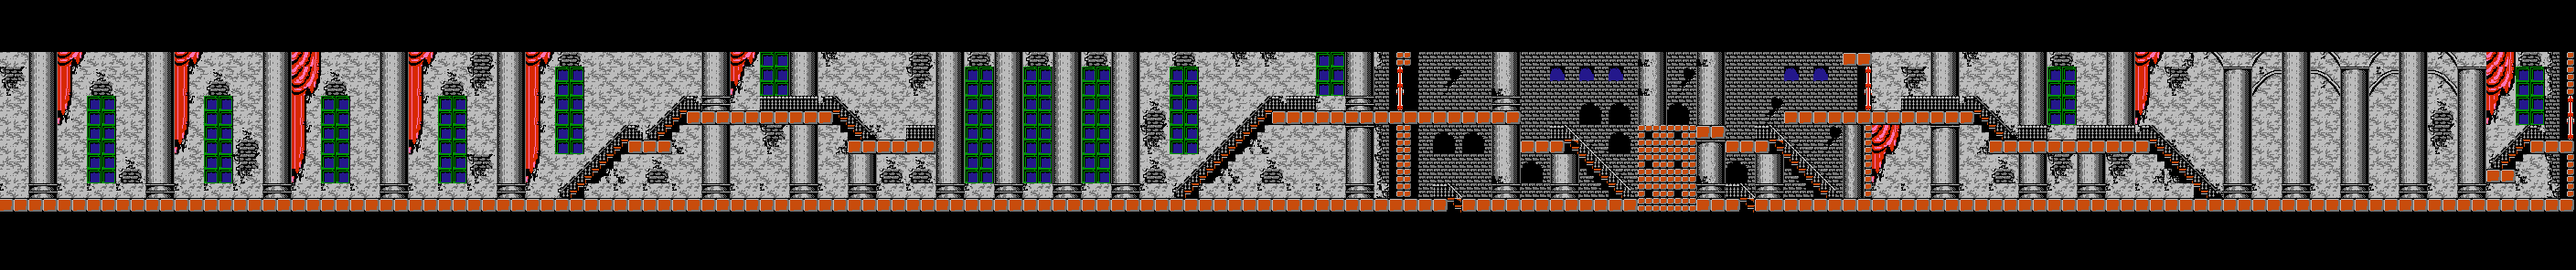
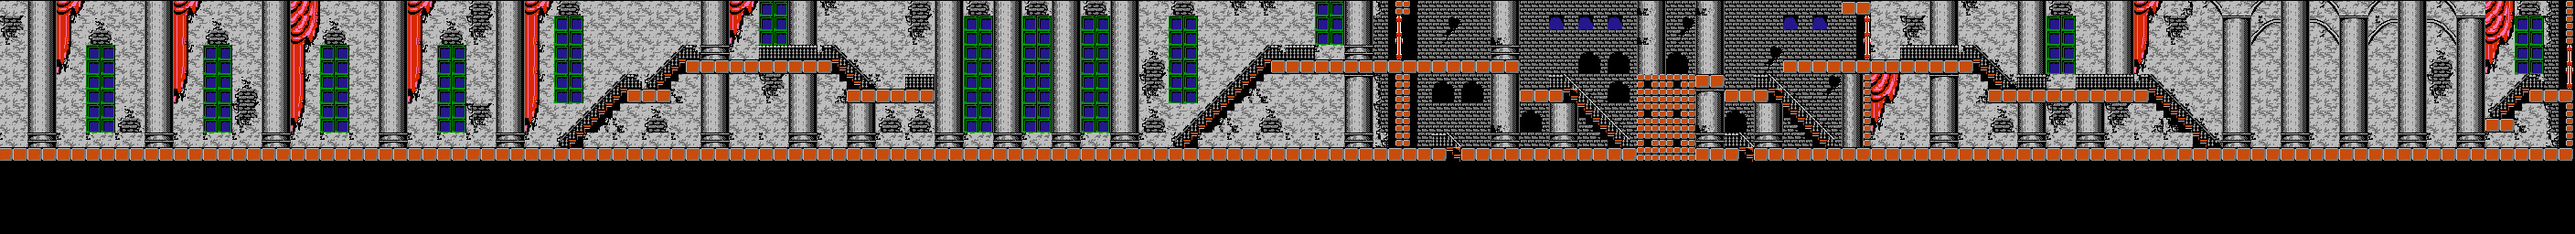
edit tilemaps + Simon can use subWeapon

diff --git a/CastleVania/CastleVania/Weapon.cpp b/CastleVania/CastleVania/Weapon.cpp
@@ -1,7 +1,8 @@
 #include "Weapon.h"
 #include "Candle.h"
-#include "debug.h"
-#include <iostream>
+#include "Game.h"
+#include "Simon.h"
+
 
 Weapon::Weapon()
 {
@@ -19,42 +20,49 @@ Weapon::Weapon()
 
 void Weapon::Update(DWORD dt, vector<LPGAMEOBJECT>* coObjects)
 {
-	CGameObject::Update(dt);
+		CGameObject::Update(dt);
+
+	// Calculate dx, dy 
+	if (isFlying)
+	{
+		x += dx;
+
 	
-		// Calculate dx, dy 
-		if (isFlying)
+
+		//Xet va cham voi candle bang bbox 
+		for (UINT i = 1; i < coObjects->size(); i++)
 		{
-			x += dx;
-	
-	
-			//Xet va cham voi candle bang bbox 
-			for (UINT i = 1; i < coObjects->size(); i++)
+			float left_a, top_a, right_a, bottom_a;// obj khac
+			float left, top, right, bottom; // dagger
+
+			coObjects->at(i)->GetBoundingBox(left_a, top_a, right_a, bottom_a);			// bbox obj 
+			GetBoundingBox(left, top, right, bottom);									// bbox dagger 
+
+			if (CheckAABB(left_a, top_a, right_a, bottom_a, left, top, right, bottom))
 			{
-				float left_a, top_a, right_a, bottom_a;// obj khac
-				float left, top, right, bottom; // dagger
-	
-				coObjects->at(i)->GetBoundingBox(left_a, top_a, right_a, bottom_a);			// bbox obj 
-				GetBoundingBox(left, top, right, bottom);									// bbox dagger 
-	
-				if (CheckAABB(left_a, top_a, right_a, bottom_a, left, top, right, bottom))
+				
+				if (dynamic_cast<CCandle*>(coObjects->at(i))) // if e->obj is CANDLE 				
 				{
-					
-					if (dynamic_cast<CCandle*>(coObjects->at(i))) // if e->obj is CANDLE 				
-					{
-						coObjects->at(i)->SetState(CANDLE_STATE_FIRE);
-						SetState(WeaponType::NONE);
-	
-					}
-	
+					coObjects->at(i)->SetState(CANDLE_STATE_FIRE);
+					SetState(WeaponType::NONE);
+					CSimon::GetInstance()->isUsingSupWeapon = false;
+
 				}
+
 			}
 		}
-	/*
-		if (x > CGame::GetInstance()->GetCam_x() + SCREEN_WIDTH  && x < 512)
+
+		if (x > CGame::GetInstance()->GetCam_x() + SCREEN_WIDTH )
 		{
-			isFlying = false;
+			SetState(WeaponType::NONE);
+			CSimon::GetInstance()->isUsingSupWeapon = false;
 			return;
-		}*/
+		}
+	}
+
+
+
+
 }
 
 void Weapon::Render()
@@ -109,6 +117,10 @@ void Weapon::SetState(int state)
 	//this->nx = CSimon::GetInstance()->nx;
 	switch (state)
 	{
+	case WeaponType::NONE:
+		isFlying = false;
+		isThrowing = false;
+		break;
 	case WeaponType::DAGGER:
 		std::cout << "vo state dagger" << endl;
 		isFlying = true;

diff --git a/CastleVania/CastleVania/CTileMap.cpp b/CastleVania/CastleVania/CTileMap.cpp
@@ -119,19 +119,15 @@ void CTileMap::LoadMap() // DOC FILE MA TRAN CUA MAP THEO ID MAP
 
 void CTileMap::RenderMap()
 {
-	CSprites* spritetile = CSprites::GetInstance();
-	CTextures* textures = CTextures::GetInstance();
-
 	col_begin = floor( CGame::GetInstance()->GetCam_x() / 64 ); // cot bd (lam tron xuong)
 	col_end = col_begin + SCREEN_WIDTH / 64 +1;					// cot ket thuc -> lay du 1 cot 
-
 
 	for (int i = 0; i < num_row; i++)
 	{
 		for (int j = col_begin; j < col_end; j++)
 		{
 			float x = TILE_SIZE * (j - col_begin) - (int)CGame::GetInstance()->GetCam_x() % 64 + CGame::GetInstance()->GetCam_x();
-			float y = TILE_SIZE * i + 80;
+			float y = TILE_SIZE * i + BEGIN_DRAW_Y;
 
 			CSprites::GetInstance()->Get(ID_MAP + tileMap[i][j]+1)->Draw(x, y, 255); // lay id sprite de draw theo ma tran map			
 		}
@@ -139,15 +135,12 @@ void CTileMap::RenderMap()
 	}
 }
 
-
-
 CTileMaps* CTileMaps::__instance = NULL;
 CTileMaps* CTileMaps::GetInstance()
 {
 	if (__instance == NULL) __instance = new CTileMaps();
 	return __instance;
 }
-
 
 void CTileMaps::LoadResource(int ID_MAP) // load map theo ID
 {

diff --git a/CastleVania/CastleVania/Simon.cpp b/CastleVania/CastleVania/Simon.cpp
@@ -178,20 +178,28 @@ void CSimon::Update(DWORD dt, vector<LPGAMEOBJECT>* coObjects)
 		isHurting = false;
 
 
-	CWhip::GetInstance()->SetPosition(x - 80, y);
-	CWhip::GetInstance()->nx = nx;
+	if (isAttacking)
+	{
+		CWhip::GetInstance()->SetPosition(x - 80, y);
+		CWhip::GetInstance()->nx = nx;
+		CWhip::GetInstance()->Update(dt, coObjects);
 
-	subWeapon->nx;
+		subWeapon->nx; // lay huong cua Simon
+	}
+	if (isUsingSupWeapon)
+	{
+		subWeapon->Update(dt, coObjects);
+	}
+
 
 	// Han che Attacking/ doi mau lien tuc
 	if (animations[ani]->getCurrentFrame() >= MAX_FRAME_ATTACK)
 	{
 		isAttacking = false;
 		isChangeColor = false;
-	}
+	}	
 
-	if (isUsingSupWeapon)
-	
+
 
 	// clean up collision events
 	for (UINT i = 0; i < coEvents.size(); i++) delete coEvents[i];
@@ -254,7 +262,7 @@ void CSimon::Render()
 
 	RenderBoundingBox();
 
-	if (isAttacking && isUsingSupWeapon && curSupWeapon != WeaponType::NONE)
+	if (isUsingSupWeapon && curSupWeapon != WeaponType::NONE)
 		subWeapon->Render();
 	else if (isAttacking && !isUsingSupWeapon)
 		CWhip::GetInstance()->Render();

diff --git a/CastleVania/CastleVania/define.h b/CastleVania/CastleVania/define.h
@@ -1,4 +1,17 @@
 #pragma once
+#include <iostream>
+#include <fstream>
+#include <sstream>
+#include <string>
+#include <unordered_map>
+#include <vector>
+
+
+
+#include "GameObject.h"
+
+#include "debug.h"
+
 
 #define BACKGROUND_COLOR D3DCOLOR_XRGB(0, 0, 0) // background black
 #define SCREEN_WIDTH 512
@@ -11,6 +24,9 @@
 #define MAP_2	2000
 #define MAP_3	3000
 
+
+#define BRICK_BBOX_WIDTH  16
+#define BRICK_BBOX_HEIGHT 16
 
 // TEXTURE ID
 /*

diff --git a/CastleVania/CastleVania/CTileMap.h b/CastleVania/CastleVania/CTileMap.h
@@ -1,18 +1,12 @@
-#include <fstream>
-#include <sstream>
-#include <string>
-#include <unordered_map>
 #include <Windows.h>
-#include <iostream>
-#include <vector>
-#include "debug.h"
+
+#include "define.h"
 #include "Textures.h"
 #include "Sprites.h"
-#include "define.h"
 
 #define MAX_SCENE 3
 #define TILE_SIZE	64
-
+#define BEGIN_DRAW_Y	80
 class CTileMap
 {
 	int mapWidth; //chieu dai map

diff --git a/CastleVania/CastleVania/main.cpp b/CastleVania/CastleVania/main.cpp
@@ -21,12 +21,8 @@
 #include <windows.h>
 #include <d3d9.h>
 #include <d3dx9.h>
-#include <fstream>
-#include <string>
 
-#include "debug.h"
 #include "Game.h"
-#include "GameObject.h"
 #include "Textures.h"
 
 #include "Whip.h"
@@ -35,7 +31,6 @@
 #include "define.h"
 
 #include "tinyxml.h"
-#include <iostream>
 #include "Candle.h"
 #include "Weapon.h"
 #include "CTileMap.h"

diff --git a/CastleVania/CastleVania/Scenes.h b/CastleVania/CastleVania/Scenes.h
@@ -2,16 +2,11 @@
 //#include <windows.h>
 //#include <d3d9.h>
 //#include <d3dx9.h>
-//#include <fstream>
-//#include <string>
-//#include <iostream>
-//
+
 //#include "tinyxml.h"
-//#include "debug.h"
+
 //#include "Game.h"
-//#include "GameObject.h"
 //#include "Textures.h"
-//
 //#include "Whip.h"
 //#include "Brick.h"
 //#include "Simon.h"

diff --git a/CastleVania/CastleVania/Whip.h b/CastleVania/CastleVania/Whip.h
@@ -1,9 +1,8 @@
 #pragma once
 #include <algorithm>
 
-#include "debug.h"
+#include "define.h"
 #include "Game.h"
-#include "GameObject.h"
 #include "Sprites.h"
 #include "Weapon.h"
 #include "Candle.h"

diff --git a/CastleVania/CastleVania/Brick.h b/CastleVania/CastleVania/Brick.h
@@ -1,8 +1,5 @@
 #pragma once
-#include "GameObject.h"
-#include "debug.h"
-#define BRICK_BBOX_WIDTH  16
-#define BRICK_BBOX_HEIGHT 16
+#include "define.h"
 
 class CBrick : public CGameObject
 {

diff --git a/CastleVania/CastleVania/Simon.h b/CastleVania/CastleVania/Simon.h
@@ -1,8 +1,6 @@
 #pragma once
 #include <algorithm>
-#include "debug.h"
-#include <iostream>
-#include "GameObject.h"
+#include "define.h"
 #include "Weapon.h"
 #include "Whip.h"
 

diff --git a/CastleVania/CastleVania/Weapon.h b/CastleVania/CastleVania/Weapon.h
@@ -1,7 +1,6 @@
 #pragma once
 #include <algorithm>
-
-#include "GameObject.h"
+#include "define.h"
 
 #define WEAPON_GRAVITY			0.002f
 #define DAGGER_SPEED			0.3f

diff --git a/CastleVania/CastleVania/Candle.h b/CastleVania/CastleVania/Candle.h
@@ -1,6 +1,5 @@
 #pragma once
-#include "GameObject.h"
-#include "debug.h"
+#include "define.h"
 
 
 #define ITEM_GRAVITY				0.2f
